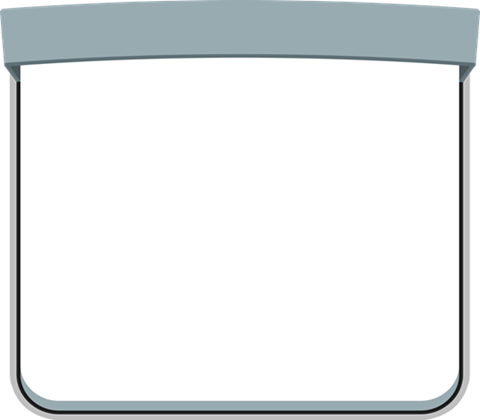
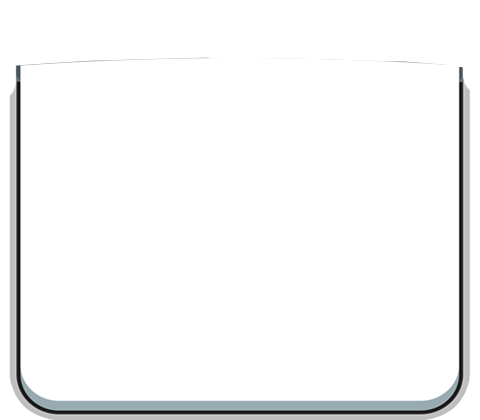
change gameover modal header color by primaryColor

Changed region(s): [[0.0, 0.0, 1.0, 0.2167]]

diff --git a/components/games/CanSmash/GUI/GameOverUI.ts b/components/games/CanSmash/GUI/GameOverUI.ts
@@ -4,6 +4,9 @@ import { EventTypes, Events } from "../Events";
 import { LevelCreator } from "../LevelCreator";
 import { Utils } from "../Utils";
 import { Images } from "../Images";
+import { Color4 } from "@babylonjs/core";
+import { GameData } from "../GameData";
+import { TintedImage } from "./TintedImage";
 
 export class GameOverUI {
   targetshits_count: GUI.TextBlock;
@@ -31,6 +34,8 @@ export class GameOverUI {
     img.horizontalAlignment = GUI.Control.HORIZONTAL_ALIGNMENT_CENTER;
     img.verticalAlignment = GUI.Control.VERTICAL_ALIGNMENT_CENTER;
     this.container.addControl(img);
+
+    this.createHeader();
 
     var sad_img = new GUI.Image();
     sad_img.source = Images.data.sad;
@@ -79,8 +84,8 @@ export class GameOverUI {
     close_btn.source = Images.data.CloseBtn;
     close_btn.widthInPixels = 55;
     close_btn.heightInPixels = 55;
-    close_btn.leftInPixels = -18;
-    close_btn.topInPixels = 5;
+    close_btn.leftInPixels = -50;
+    close_btn.topInPixels = 10;
     close_btn.horizontalAlignment = GUI.Control.HORIZONTAL_ALIGNMENT_RIGHT;
     close_btn.verticalAlignment = GUI.Control.VERTICAL_ALIGNMENT_TOP;
     this.container.addControl(close_btn);
@@ -101,7 +106,7 @@ export class GameOverUI {
     textBlock.textHorizontalAlignment = GUI.Control.HORIZONTAL_ALIGNMENT_LEFT;
     textBlock.fontSize = 30;
     textBlock.topInPixels = topInPixels;
-    textBlock.leftInPixels = 50;
+    textBlock.leftInPixels = 80;
     textBlock.color = "#1979B3";
     textBlock.outlineWidth = 0;
     this.container.addControl(textBlock);
@@ -115,7 +120,7 @@ export class GameOverUI {
     TextBlock.clipContent = false;
     TextBlock.fontSize = 35;
     TextBlock.topInPixels = topInPixels;
-    TextBlock.leftInPixels = -80;
+    TextBlock.leftInPixels = -90;
     TextBlock.color = "#FAF8F9";
 
     TextBlock.outlineWidth = 4;
@@ -137,5 +142,30 @@ export class GameOverUI {
   hidePopup() {
     this.container.isEnabled = false;
     this.container.isVisible = false;
+  }
+
+  private createHeader() {
+    var modal_header = new TintedImage();
+    modal_header.clipChildren = false;
+    modal_header.clipContent = false;
+    modal_header.source = Images.data.ModalHeader;
+    modal_header.sourceWidth = 500;
+    modal_header.sourceHeight = 100;
+    modal_header.widthInPixels = 570;
+    modal_header.heightInPixels = 150;
+    modal_header.setWFactor(2);
+    modal_header.setHFactor(4);
+
+    modal_header.onImageLoadedObservable.addOnce(() => {
+      modal_header.tint = Color4.FromHexString(
+        GameData.instance.getPrimaryColor()
+      );
+    });
+
+    modal_header.topInPixels = -10;
+    modal_header.leftInPixels = 40;
+    modal_header.horizontalAlignment = GUI.Control.HORIZONTAL_ALIGNMENT_CENTER;
+    modal_header.verticalAlignment = GUI.Control.VERTICAL_ALIGNMENT_TOP;
+    this.container.addControl(modal_header);
   }
 }
